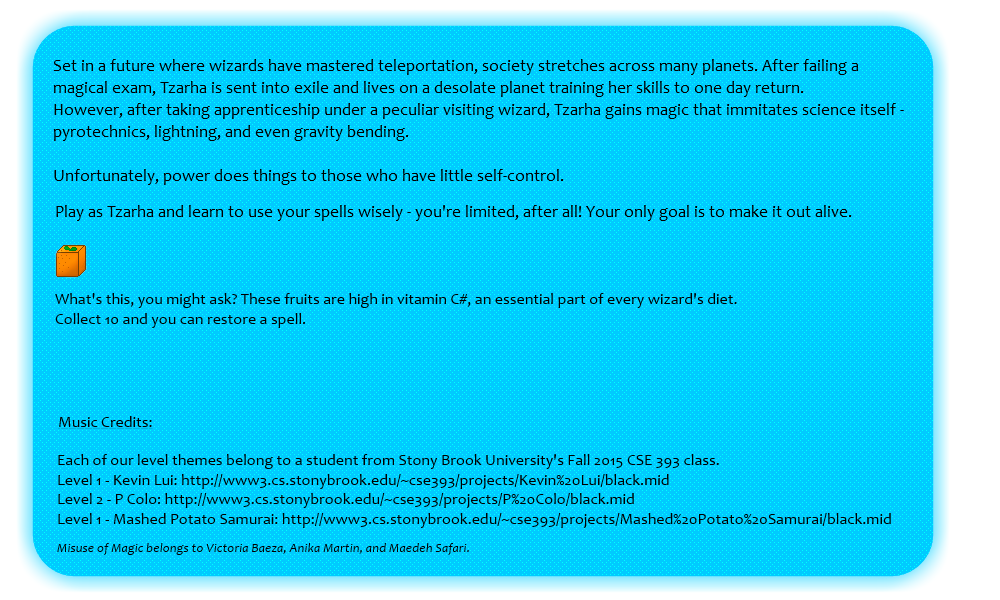
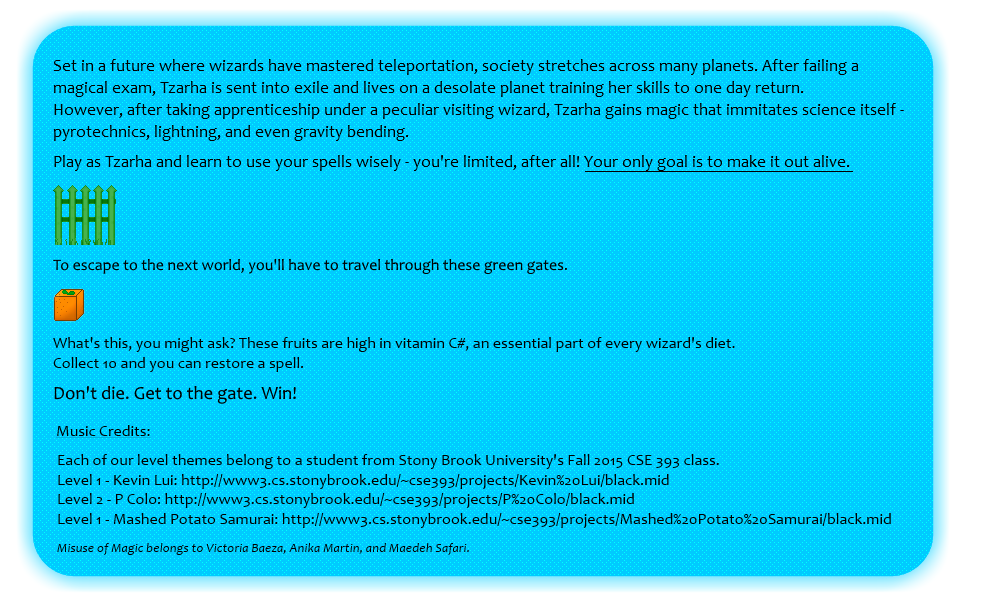
Changed the look of the tiles and added information to the help screen.
The level select screen has been rearranged to prioritize attack selection, but doing so is still not mandatory before starting.

Changed region(s): [[0.031, 0.24, 0.837, 0.54], [0.062, 0.57, 0.744, 0.75]]

diff --git a/Game/js/local/screens/momLevelSelect.js b/Game/js/local/screens/momLevelSelect.js
@@ -26,78 +26,77 @@ momLevelSelect.prototype = {
     backButton.inputEnabled = true;
     backButton.events.onInputUp.add(function() {menuClick.play(); game.state.start("GameMenu");});
 
-    attackSelectText = game.add.text(600, 525, "Select your skills!");
+    attackSelectText = game.add.text(600, 110, "Select your skills!");
     attackSelectText.fixedToCamera = true;
-    attackSelectText.cameraOffset.setTo(600,525);
+    attackSelectText.cameraOffset.setTo(600,110);
     attackSelectText.anchor.setTo(0.5);
-    cheatSelectText = game.add.text(600, 150, "Note: Press '2' or '3' to unlock later levels!");
+    cheatSelectText = game.add.text(600, 630, "Note: Press '2' or '3' to unlock later levels!");
     cheatSelectText.fixedToCamera = true;
-    cheatSelectText.cameraOffset.setTo(600,150);
+    cheatSelectText.cameraOffset.setTo(600,630);
     cheatSelectText.anchor.setTo(0.5);
     game.sameAttackText = game.add.text(0,0,"");
     
-    flareInfo = game.add.sprite(352, 630, "flareInfo");
+    flareInfo = game.add.sprite(352, 225, "flareInfo");
     flareInfo.fixedToCamera = true;
-    flareInfo.cameraOffset.setTo(352,630);
+    flareInfo.cameraOffset.setTo(352,225);
     flareInfo.visible = false;
-    firefloomInfo = game.add.sprite(352, 630, "firefloomInfo");
+    firefloomInfo = game.add.sprite(352, 225, "firefloomInfo");
     firefloomInfo.fixedToCamera = true;
-    firefloomInfo.cameraOffset.setTo(352,630);
+    firefloomInfo.cameraOffset.setTo(352,225);
     firefloomInfo.visible = false;
-    zoltInfo = game.add.sprite(352, 630, "zoltInfo");
+    zoltInfo = game.add.sprite(352, 225, "zoltInfo");
     zoltInfo.fixedToCamera = true;
-    zoltInfo.cameraOffset.setTo(352,630);
+    zoltInfo.cameraOffset.setTo(352,225);
     zoltInfo.visible = false;
-    electromagnetismInfo = game.add.sprite(352, 630, "electromagnetismInfo");
+    electromagnetismInfo = game.add.sprite(352, 225, "electromagnetismInfo");
     electromagnetismInfo.fixedToCamera = true;
-    electromagnetismInfo.cameraOffset.setTo(352,630);
+    electromagnetismInfo.cameraOffset.setTo(352,225);
     electromagnetismInfo.visible = false;
-    vectorInfo = game.add.sprite(352, 630, "vectorInfo");
+    vectorInfo = game.add.sprite(352, 225, "vectorInfo");
     vectorInfo.fixedToCamera = true;
-    vectorInfo.cameraOffset.setTo(352,630);
+    vectorInfo.cameraOffset.setTo(352,225);
     vectorInfo.visible = false;
-    reverseTrajectoryInfo = game.add.sprite(352, 630, "reverseTrajectoryInfo");
+    reverseTrajectoryInfo = game.add.sprite(352, 225, "reverseTrajectoryInfo");
     reverseTrajectoryInfo.fixedToCamera = true;
-    reverseTrajectoryInfo.cameraOffset.setTo(352,630);
+    reverseTrajectoryInfo.cameraOffset.setTo(352,225);
     reverseTrajectoryInfo.visible = false;
 
     attackInfoBoxes = ["default", flareInfo, firefloomInfo, zoltInfo, electromagnetismInfo, vectorInfo, reverseTrajectoryInfo];
 
-    attackUp1 = game.add.sprite(540, 555, "attackUp");
-    attackUp2 = game.add.sprite(600, 555, "attackUp");
-    attackUp3 = game.add.sprite(660, 555, "attackUp");
+    attackUp1 = game.add.sprite(540, 140, "attackUp");
+    attackUp2 = game.add.sprite(600, 140, "attackUp");
+    attackUp3 = game.add.sprite(660, 140, "attackUp");
     attackUp1.fixedToCamera = true;
-    attackUp1.cameraOffset.setTo(540,555);
+    attackUp1.cameraOffset.setTo(540,140);
     attackUp1.anchor.setTo(0.5);
     attackUp2.fixedToCamera = true;
-    attackUp2.cameraOffset.setTo(600,555);
+    attackUp2.cameraOffset.setTo(600,140);
     attackUp2.anchor.setTo(0.5);
     attackUp3.fixedToCamera = true;
-    attackUp3.cameraOffset.setTo(660,555);
+    attackUp3.cameraOffset.setTo(660,140);
     attackUp3.anchor.setTo(0.5);
 
-    attackDown1 = game.add.sprite(540, 625, "attackDown");
-    attackDown2 = game.add.sprite(600, 625, "attackDown");
-    attackDown3 = game.add.sprite(660, 625, "attackDown");
+    attackDown1 = game.add.sprite(540, 210, "attackDown");
+    attackDown2 = game.add.sprite(600, 210, "attackDown");
+    attackDown3 = game.add.sprite(660, 210, "attackDown");
     attackDown1.fixedToCamera = true;
-    attackDown1.cameraOffset.setTo(540,625);
+    attackDown1.cameraOffset.setTo(540,210);
     attackDown1.anchor.setTo(0.5);
     attackDown2.fixedToCamera = true;
-    attackDown2.cameraOffset.setTo(600,625);
+    attackDown2.cameraOffset.setTo(600,210);
     attackDown2.anchor.setTo(0.5);
     attackDown3.fixedToCamera = true;
-    attackDown3.cameraOffset.setTo(660,625);
+    attackDown3.cameraOffset.setTo(660,210);
     attackDown3.anchor.setTo(0.5);
 
-    attackIcon1 = game.add.sprite(540, 590, "attackIcons");
-    attackIcon1.cameraOffset.setTo(600,630);
+    attackIcon1 = game.add.sprite(540, 175, "attackIcons");
+    attackIcon1.cameraOffset.setTo(600,175);
     attackIcon1.anchor.setTo(0.5);
-    attackIcon2 = game.add.sprite(600, 590, "attackIcons");
-    attackIcon2.cameraOffset.setTo(600,630);
+    attackIcon2 = game.add.sprite(600, 175, "attackIcons");
+    attackIcon2.cameraOffset.setTo(600,175);
     attackIcon2.anchor.setTo(0.5);
-    attackIcon3 = game.add.sprite(660, 590, "attackIcons");
-    attackIcon3.cameraOffset.setTo(600,630);
-    attackIcon3.anchor.setTo(0.5);
+    attackIcon3 = game.add.sprite(660, 175, "attackIcons");
+    attackIcon3.cameraOffset.setTo(600,175);
     attackIcon1.frame = 1; //set the default attacks
     attackIcon2.frame = 3;
     attackIcon3.frame = 5;
@@ -226,7 +225,7 @@ momLevelSelect.prototype = {
             var level = new Level(index + 1);
 
             var x = 90 + ((index%4) * 300);
-            var y = 200 + (Math.floor(index/4) * 150);
+            var y = 340 + (Math.floor(index/4) * 150);
 
             var level_sprite = game.add.sprite(x, y, level.portal_name());
             level.set_icon_sprite(level_sprite, game);
@@ -237,7 +236,7 @@ momLevelSelect.prototype = {
         _.each(game.levels, function (level, index) {
 
             var x = 90 + ((index%4) * 300);
-            var y = 200 + (Math.floor(index/4) * 150);
+            var y = 340 + (Math.floor(index/4) * 150);
 
             var level_sprite = game.add.sprite(x, y, level.portal_name());
             level.set_icon_sprite(level_sprite, game);

diff --git a/Game/js/local/Level.js b/Game/js/local/Level.js
@@ -44,13 +44,13 @@ Level.prototype = {
       this.icon_sprite.events.onInputUp.add(function() { 
         game.sameAttackText.destroy();
         if (attackIcon1.frame === attackIcon2.frame && attackIcon2.frame === attackIcon3.frame)
-          game.sameAttackText = game.add.text(game.camera.width/2, 665, "You cannot have the same skill in slots 1, 2, and 3. Try again!");
+          game.sameAttackText = game.add.text(game.camera.width/2, 190, "You cannot have the same skill in slots 1, 2, and 3. Try again!");
         else if (attackIcon1.frame === attackIcon2.frame) 
-          game.sameAttackText = game.add.text(game.camera.width/2, 665, "You cannot have the same skill in slots 1 and 2. Try again!");
+          game.sameAttackText = game.add.text(game.camera.width/2, 190, "You cannot have the same skill in slots 1 and 2. Try again!");
         else if (attackIcon1.frame === attackIcon3.frame)
-          game.sameAttackText = game.add.text(game.camera.width/2, 665, "You cannot have the same skill in slots 1 and 3. Try again!");
+          game.sameAttackText = game.add.text(game.camera.width/2, 190, "You cannot have the same skill in slots 1 and 3. Try again!");
         else if (attackIcon2.frame === attackIcon3.frame)
-          game.sameAttackText = game.add.text(game.camera.width/2, 665, "You cannot have the same skill in slots 2 and 3. Try again!");
+          game.sameAttackText = game.add.text(game.camera.width/2, 190, "You cannot have the same skill in slots 2 and 3. Try again!");
         else {
           menuClick = game.add.audio("menuClick");
           menuClick.play();

diff --git a/Game/js/local/screens/splash.js b/Game/js/local/screens/splash.js
@@ -129,9 +129,9 @@ splash.prototype = {
 
     //load sprites
     game.load.spritesheet("TZHARA", 'assets/Sprites/Tzarha/spritesheet.png', 64, 96);
-    game.load.spritesheet("ELECTRIC_WIZARD", "assets/Sprites/Wizards/Lightning/spritesheet.png", 64, 96);
-    game.load.spritesheet("FIRE_WIZARD", "assets/Sprites/Wizards/Fire/spritesheet.png", 64, 96);
-    game.load.spritesheet("GRAVITY_WIZARD", "assets/Sprites/Wizards/Ice/spritesheet.png", 64, 96);
+    game.load.spritesheet("ELECTRIC_WIZARD", "assets/Sprites/Wizards/Lightning/spritesheet.png", 42, 73);
+    game.load.spritesheet("FIRE_WIZARD", "assets/Sprites/Wizards/Fire/spritesheet.png", 42, 73);
+    game.load.spritesheet("GRAVITY_WIZARD", "assets/Sprites/Wizards/Ice/spritesheet.png", 42, 73);
 
     //load audio
     game.load.audio("menuClick", "assets/audio/menuClick.mp3");

diff --git a/Game/js/local/Wizard.js b/Game/js/local/Wizard.js
@@ -58,7 +58,7 @@ _.extend(Wizard.prototype, {
     this.body.gravity.y = 500;
     this.anchor.setTo(0.5, 0.5);
 
-    var states = ["ATTACK_L", "ATTACK_R", "DAMAGE_L","DAMAGE_R", "DEAD_L", "DEAD_R", "WALK_L", "WALK_R"];
+    var states = ["ATTACK_L", "ATTACK_R", "DAMAGE_L","DAMAGE_R", "DEAD_L", "DEAD_R", "WALK_L", "WALK_R", "ATTACK_UPL", "ATTACK_UPR"];
     _.each(states, function(state, index) {
       var frameIndexes = _.range(index * 9, index * 9 + 9);
       sprite.animations.add(state, frameIndexes, 15, true);
